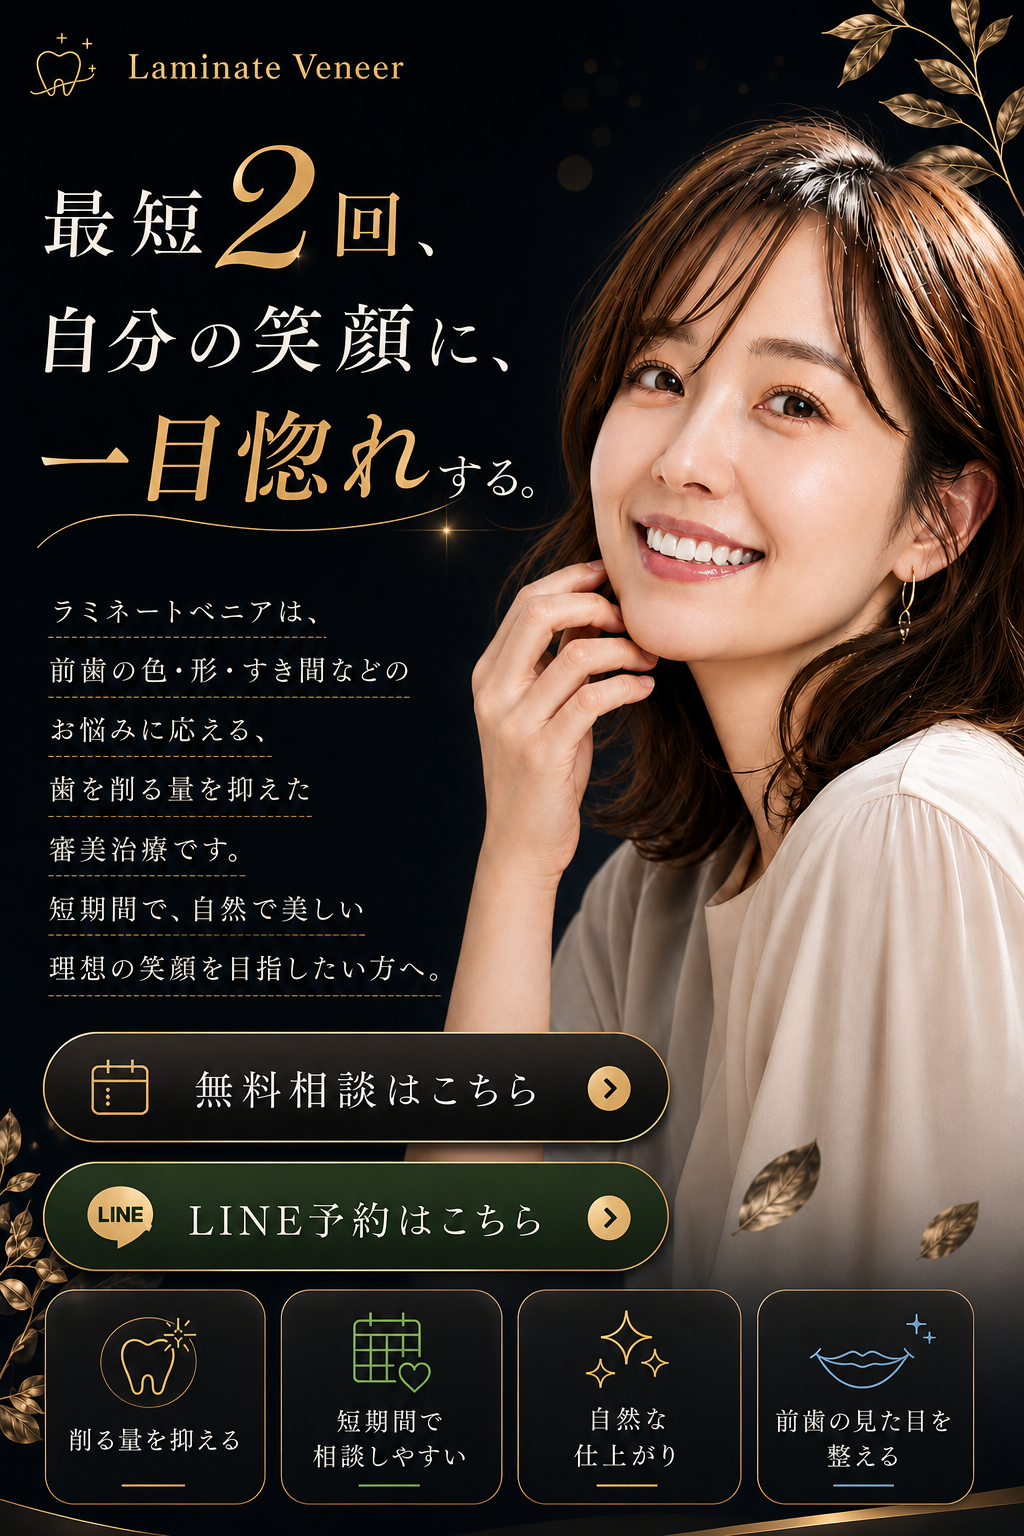
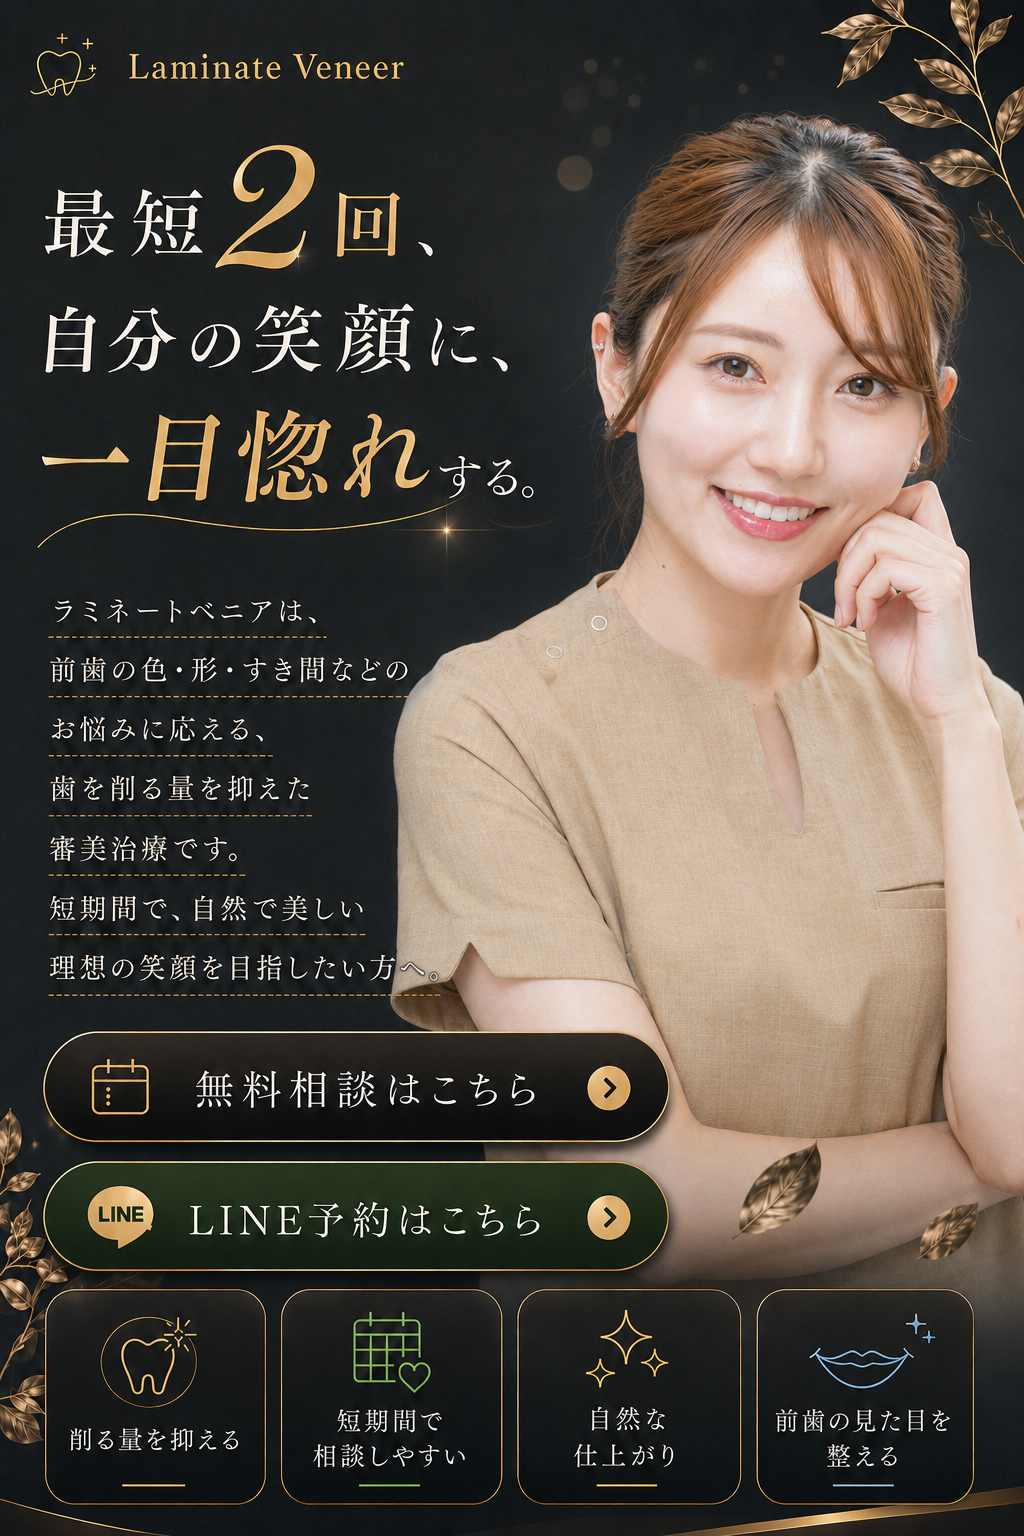
Replace laminate LP images

diff --git a/index.html b/index.html
@@ -27,7 +27,7 @@
       </section>
 
       <section class="lp-panel" aria-label="ラミネートベニアのお悩み">
-        <img src="assets/images/02-concerns.png" alt="こんなお悩みありませんか" width="1024" height="1536">
+        <img src="assets/images/02-concerns.png" alt="こんなお悩みありませんか" width="941" height="1672">
       </section>
 
       <section class="lp-panel" aria-label="ラミネートベニアとは">
